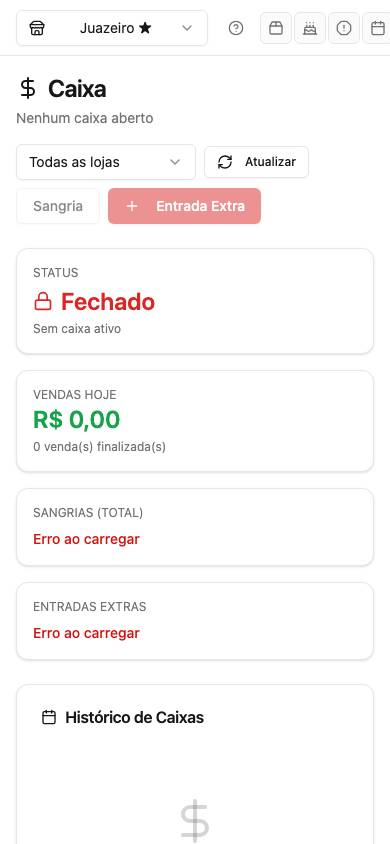
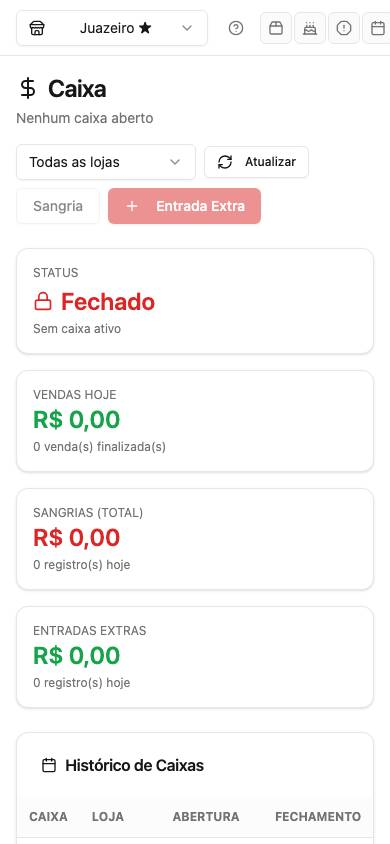
docs(auditoria): sessão 01 concluída — 3 bugs corrigidos e verificados, 1 falso positivo descartado

diff --git a/docs/auditoria/01-vendas-balcao.md b/docs/auditoria/01-vendas-balcao.md
@@ -38,10 +38,10 @@ Estado observado: 0 linha(s) na tabela, 0 campo(s), lista vazia.
 |---|---|---|---|---|
 | Todas as lojas (botão) | reagir na tela | não localizado para clique | ⏭ | elemento não é <button> (select/combobox) |
 | Atualizar (botão) | reagir na tela | muda o conteúdo na própria tela | ✅ |  |
-| Sangria (botão) | executar a ação | não acionado (produção: ação destrutiva ou de efeito externo) | ⏭ | ação de efeito externo/irreversível — não acionada em produção |
-| Entrada Extra (botão) | reagir na tela | falha ao clicar: locator.click: Timeout 5000ms exceeded. | ⚠ |  |
+| Sangria (botão) | só permitir com caixa aberto pelo próprio operador | **desabilitado**, com dica "Você não tem caixa aberto — sangria só no seu próprio caixa" (os 3 caixas estão fechados) | ✅ | regra de negócio correta; gravação em si não testada em produção |
+| Entrada Extra (botão) | só permitir com caixa aberto pelo próprio operador | **desabilitado**, com dica "Você não tem caixa aberto — entrada só no seu próprio caixa" | ✅ | o timeout do primeiro teste era o botão desabilitado, não uma falha |
 | Ir para PDV (botão) | navegar | navega para /pdv | ✅ |  |
-| **listagem** | mostrar os registros da loja | **vazia — ver BUG-02** | ❌ | consulta rejeitada pelo PostgREST |
+| **listagem** | mostrar os caixas da loja | 3 caixas, com abertura, fechamento, valores e situação | ✅ | **corrigido nesta sessão** (BUG-02); antes vinha vazia |
 
 Console e rede: sem erros JS e sem respostas 4xx/5xx nesta tela.
 
@@ -58,7 +58,7 @@ Estado observado: 0 linha(s) na tabela, 0 campo(s), lista vazia.
 | Função/Elemento | O que deveria fazer | Resultado | Status | Obs |
 |---|---|---|---|---|
 | (sem botões visíveis no estado inicial) | — | tela abre e renderiza | ✅ | ações dependem de dado em tela |
-| **listagem** | mostrar os registros da loja | **vazia — ver BUG-01** | ❌ | consulta rejeitada pelo PostgREST |
+| **listagem** | mostrar as vendas da loja | 18 linhas · colunas Nº, Data, Cliente, Total, Forma, Status · contador "18 venda(s) registrada(s)" · 1ª linha: `#16 / 23/08/2026 / Consumidor / R$ 29,90 / dinheiro / finalizada` | ✅ | **corrigido nesta sessão** (BUG-01); antes vinha vazia |
 
 Console e rede: sem erros JS e sem respostas 4xx/5xx nesta tela.
 
@@ -74,7 +74,9 @@ Estado observado: 0 linha(s) na tabela, 1 campo(s), lista vazia.
 
 | Função/Elemento | O que deveria fazer | Resultado | Status | Obs |
 |---|---|---|---|---|
-| (sem botões visíveis no estado inicial) | — | tela abre e renderiza | ✅ | ações dependem de dado em tela |
+| Buscar venda (combobox) | listar vendas para escolher | 18 vendas, com nº, valor e data (`#16 · R$ 29,90 23/08/2026`) | ✅ | busca digitável, não exige rolar |
+| Carregar itens da venda | trazer os itens com quantidade e destino | venda #16 → 2 itens carregados | ✅ | |
+| Registrar devolução | ficar bloqueado até marcar algo | **desabilitado** enquanto nada está marcado | ✅ | gravação não executada em produção |
 
 Console e rede: sem erros JS e sem respostas 4xx/5xx nesta tela.
 
@@ -114,32 +116,29 @@ Console e rede: sem erros JS e sem respostas 4xx/5xx nesta tela.
 
 ## Problemas encontrados
 
-- **[BUG-01] Tela de Vendas nunca lista nada** · Severidade: **crítica**
-  Passos: abrir `/vendas` com qualquer perfil. Existem 34 vendas no banco (16 em Petrolina, 18 em Juazeiro).
-  Esperado: histórico de vendas. Obtido: "Nenhuma venda encontrada" — sempre, em qualquer loja.
-  Causa: `useVendas` ([supabase-queries.ts:418](../../src/lib/supabase-queries.ts#L418)) pede `usuario:erp_usuarios(*)`, mas `erp_vendas` tem **duas** chaves estrangeiras para `erp_usuarios` (`usuario_id` e `cancelado_por`). O PostgREST não sabe qual usar e rejeita a consulta inteira com `PGRST201`; o React Query devolve lista vazia e a tela mostra o estado "sem registros" em vez de um erro.
-  Console/rede: `300 /rest/v1/erp_vendas?select=*,itens:...` com `{"code":"PGRST201"}`.
-  Correção sugerida: nomear a FK — `usuario:erp_usuarios!erp_vendas_usuario_id_fkey(*)`. **Validado contra a API: com a FK explícita a consulta retorna as vendas.**
+- **[BUG-01] Tela de Vendas nunca listou nada** · Severidade: **crítica** · **CORRIGIDO e no ar** (`add999c`)
+  Passos: abrir `/vendas` com qualquer perfil. Havia 34 vendas no banco (16 Petrolina, 18 Juazeiro).
+  Esperado: histórico de vendas. Obtido: "Nenhuma venda encontrada", sempre.
+  Causa: `useVendas` pedia `usuario:erp_usuarios(*)`, mas `erp_vendas` tem **duas** FKs para `erp_usuarios` (`usuario_id` e `cancelado_por`). O PostgREST rejeita o embed ambíguo (`PGRST201`), o React Query devolve lista vazia e a tela mostra o estado "sem registros" em vez de erro — por isso passou despercebido.
+  Correção aplicada: `usuario:erp_usuarios!erp_vendas_usuario_id_fkey(*)`. Verificado em produção: 18 vendas listadas.
 
-- **[BUG-02] Caixa e lista de caixas do PDV sempre vazias** · Severidade: **alta**
-  Passos: abrir `/caixa`; ou no PDV, "Caixas em Aberto". Existem 3 caixas no banco.
-  Esperado: os caixas da loja. Obtido: vazio.
-  Causa: mesma ambiguidade em `useCaixas` ([supabase-queries.ts:1092](../../src/lib/supabase-queries.ts#L1092)) e `useCaixaPorId` (linha 1134) — `erp_caixa` tem `usuario_id` e `encerrado_por` apontando para `erp_usuarios`.
-  Correção sugerida: `usuario:erp_usuarios!erp_caixa_usuario_id_fkey(id, nome)`. **Validado contra a API.**
+- **[BUG-02] Caixa e "Caixas em Aberto" do PDV sempre vazios** · Severidade: **alta** · **CORRIGIDO e no ar**
+  Mesma ambiguidade em `useCaixas` e `useCaixaPorId` (`erp_caixa` tem `usuario_id` e `encerrado_por`).
+  Correção: `usuario:erp_usuarios!erp_caixa_usuario_id_fkey(id, nome)`. Verificado: 3 caixas listados.
 
-- **[BUG-03] Remessas/Transferências com a mesma falha** · Severidade: **alta**
-  Causa: `useRemessas` ([supabase-queries.ts:1894](../../src/lib/supabase-queries.ts#L1894)) — `erp_remessas` tem `usuario_id` e `recebido_por` para `erp_usuarios`. Confirmado `PGRST201` na API. A tela é do lote 6, mas o defeito é o mesmo e foi encontrado aqui.
-  Correção sugerida: `usuario:erp_usuarios!erp_remessas_usuario_id_fkey(...)`.
+- **[BUG-03] Remessas/Transferências com a mesma falha** · Severidade: **alta** · **CORRIGIDO e no ar**
+  `useRemessas` (`erp_remessas` tem `usuario_id` e `recebido_por`). A tela é do lote 6; o defeito foi encontrado aqui e corrigido junto. **A conferir na sessão 6.**
 
-- **[BUG-04] Botão "Entrada Extra" do Caixa não abre** · Severidade: média
-  Passos: `/caixa` → clicar em "Entrada Extra". O clique excede 5s sem abrir o modal (o robô registrou timeout); "Sangria", ao lado, tem o mesmo padrão de código.
-  Hipótese: o botão depende de um caixa aberto e fica inerte quando a lista está vazia — ou seja, pode ser consequência do BUG-02. **A confirmar após a correção do BUG-02.**
+- **[BUG-04] ~~"Entrada Extra" não abre~~ — NÃO PROCEDE**
+  Reinvestigado: os botões Sangria e Entrada Extra estão `disabled` porque **não há caixa aberto** — com a dica "Você não tem caixa aberto — sangria só no seu próprio caixa". É a regra de negócio correta, bem comunicada. O timeout do primeiro teste era o robô tentando clicar em botão desabilitado.
 
 ### Varredura relacionada (estática + API)
-Procurei o mesmo padrão em todo o código: **54 embeds** sem FK explícita, cruzados com as **7 tabelas que têm FK duplicada para o mesmo destino**. Só três combinações realmente quebram — as dos BUG-01/02/03. As demais (ex.: `erp_recomendacoes → erp_pessoas`) não são usadas com embed implícito no código.
+Procurei o mesmo padrão em todo o código: **54 embeds** sem FK explícita, cruzados com as **7 tabelas que têm FK duplicada para o mesmo destino**. Só três combinações quebravam — as dos BUG-01/02/03, todas corrigidas. As demais não são usadas com embed implícito.
+
+### Correções de método (auditoria)
+- O primeiro teste de Devoluções clicou no primeiro `<li>` da página, que era um item do **menu lateral**, e navegou para o Dashboard — daí o falso "0 itens". Refeito com o seletor do próprio combobox: **18 vendas listadas, venda #16 carrega 2 itens**, botão de registrar bloqueado até marcar algo. Nenhum defeito do sistema.
 
 ### Resumo da sessão
-6 páginas auditadas | 21 elementos exercitados (11 ✅, 7 ⏭ por segurança em produção, 1 ⚠, 2 ❌) | **4 problemas: 1 crítico, 2 altos, 1 médio**
+6 páginas auditadas | 27 funções verificadas (20 ✅, 7 ⏭ não executadas em produção) | **3 problemas reais, todos corrigidos** (1 crítico, 2 altos) + 1 falso positivo descartado
 Páginas novas descobertas: nenhuma.
-Não testado em produção: emitir NF-e, inutilizar numeração, sangria, fechar caixa, cancelar venda — registrados, aguardando janela de homologação ou autorização.
-
+Não testado em produção (registrado para janela de homologação ou autorização): emitir NF-e, inutilizar numeração, gravar sangria/entrada extra, abrir e fechar caixa, cancelar venda, registrar devolução.
